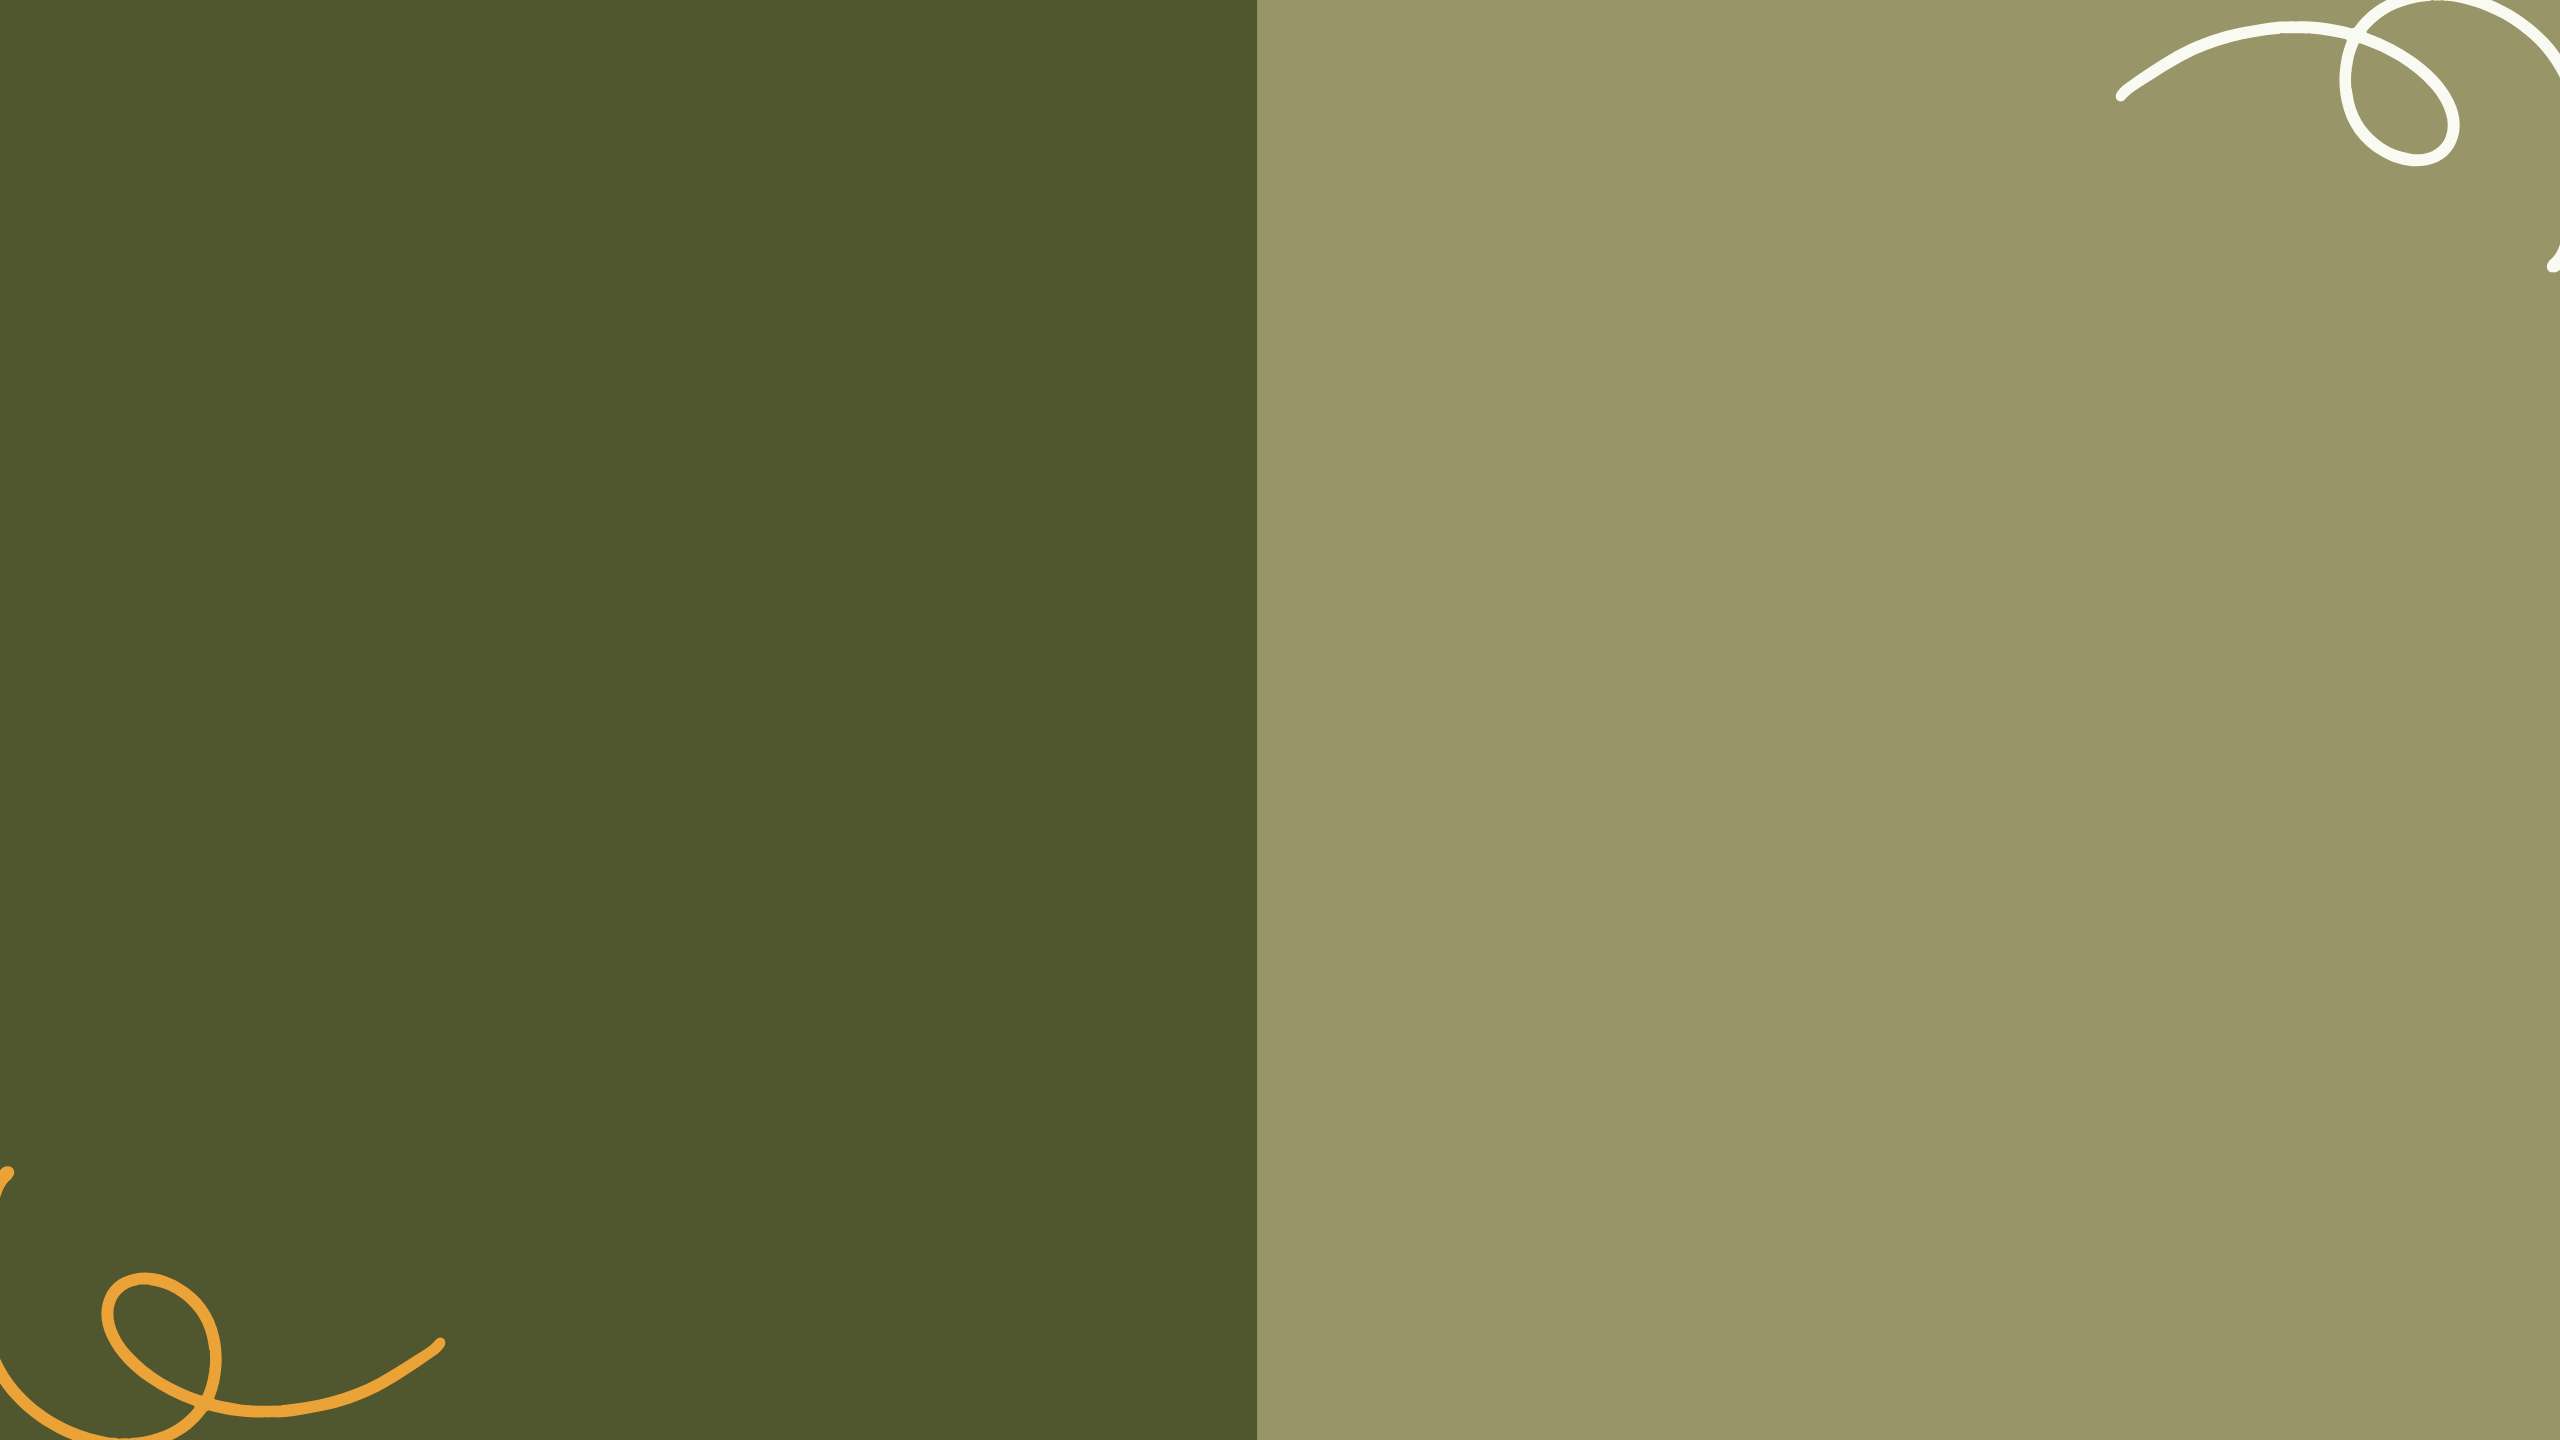
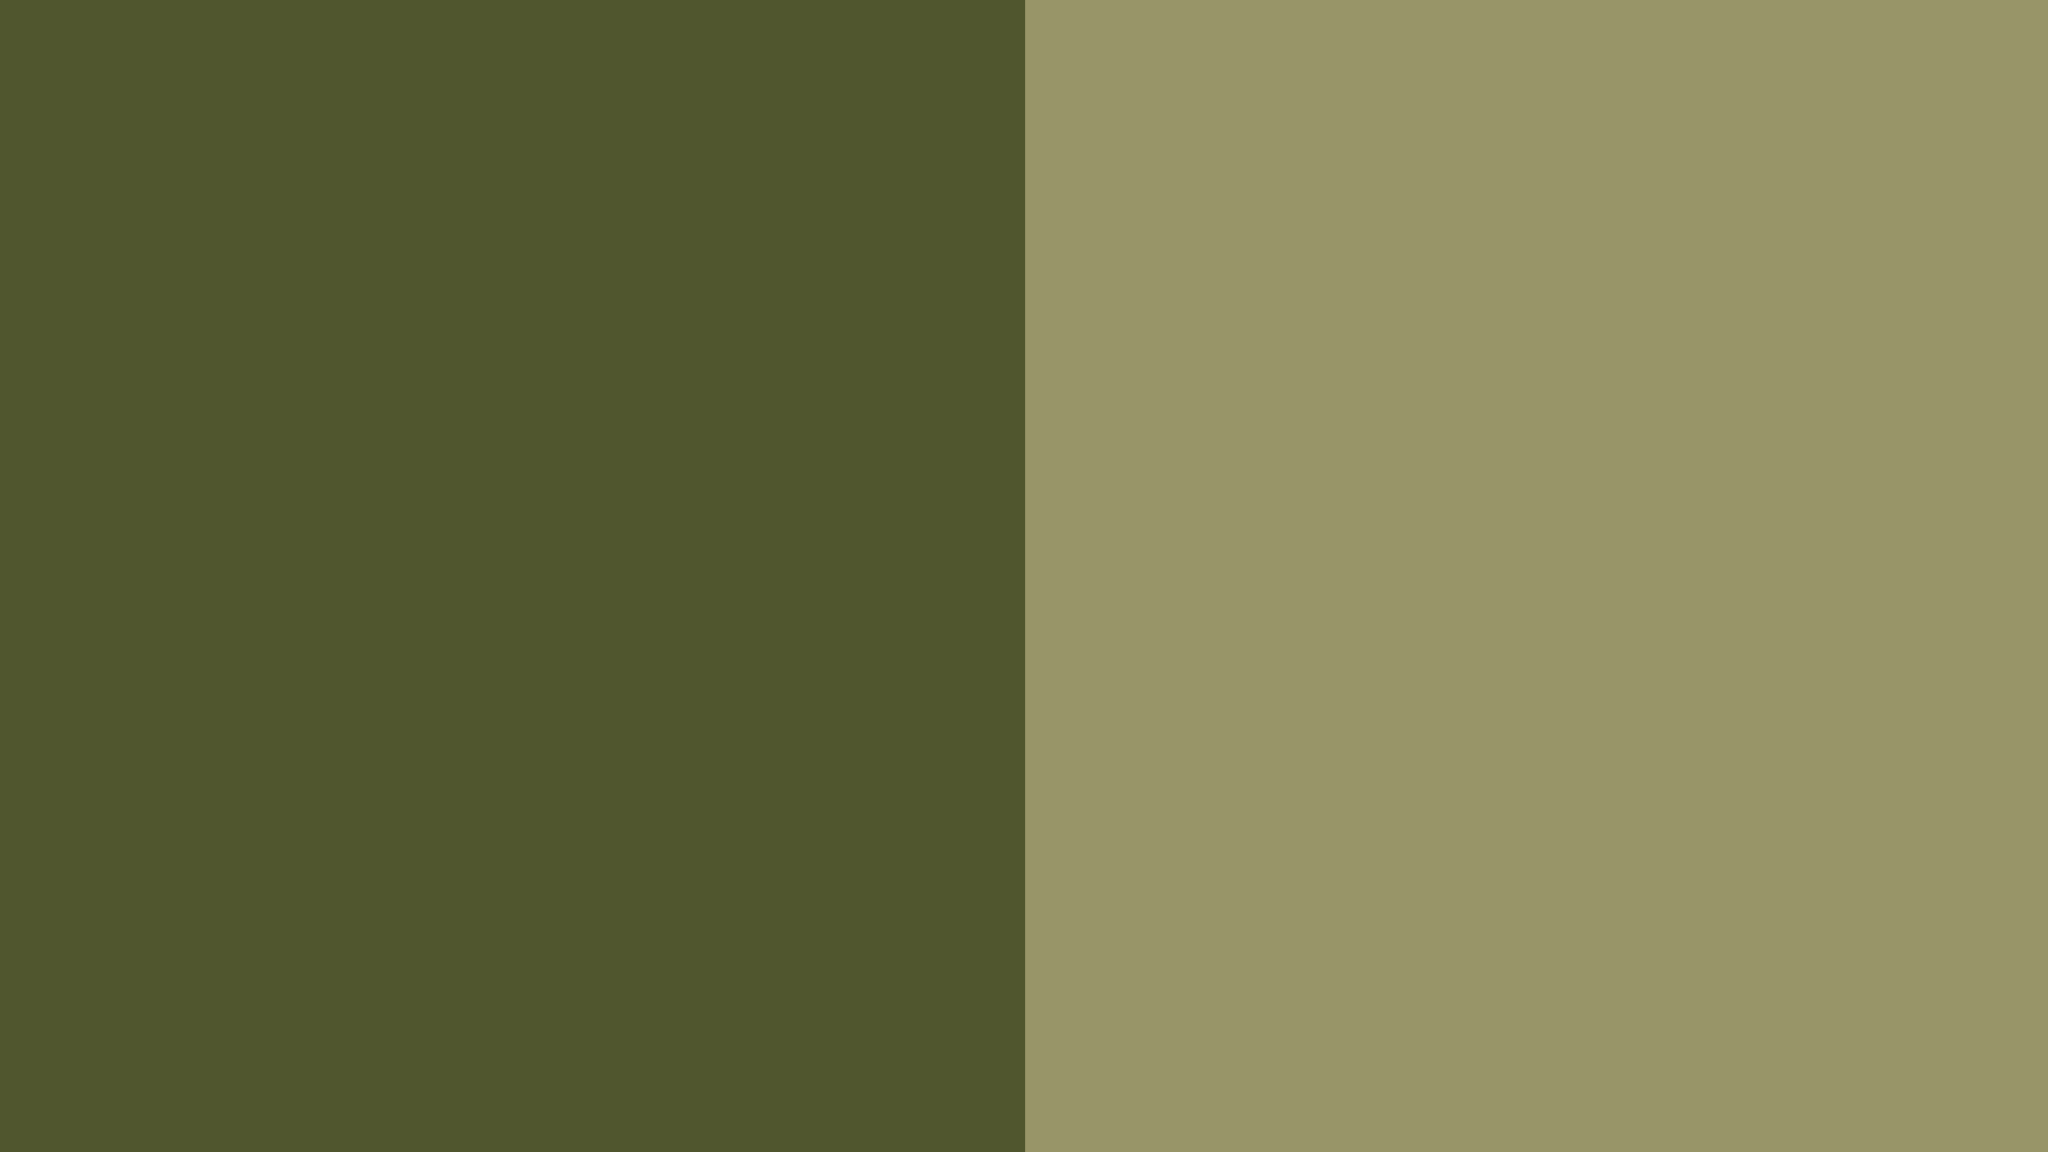
CSS: Home

diff --git a/style.css b/style.css
@@ -15,6 +15,8 @@
   --color-black: #000000;
   --color-green: #70a74e;
   --color-dark-green: #537d39;
+  --color-olive: #989568;
+  --color-dark-olive: #50562e;
 
   /* Font size */
   --font-large: 48px;
@@ -53,6 +55,13 @@ ul {
    padding-left: 0;
 }
 
+button {
+   background-color: transparent;
+   cursor: pointer;
+   border: none;
+   outline: none;
+}
+
 /* Typography */
 h1 {
    font-size: var(--font-large);
@@ -86,7 +95,7 @@ p {
 #navbar {
    display: flex;
    justify-content: space-between;
-   background-color: var(--color-green);
+   background-color: var(--color-olive);
    align-items: center;
    color: var(--color-white);
    padding: 16px;
@@ -111,6 +120,35 @@ p {
    border: 1px solid var(--color-white);
 }
 .navbar__menu__item:hover {
-   background-color: var(--color-dark-green);
+   background-color: var(--color-dark-olive);
+}
 
+/* Home */
+#home {
+   background: url(./assets/imgs/mainBackground.png) center/cover no-repeat;
+   background-size: auto;
+   padding: 40px;
+   text-align: center;
+}
+
+.home__avatar {
+   width: 250px;
+   height: 250px;
+   border-radius: 50%;
+   border: 2px solid var(--color-light-white);
+   margin-top: 24px;
+}
+.home__title,
+.home__description {
+   color: var(--color-white)
+}
+
+.home__contact {
+   color: var(--color-white);
+   font-size: var(--font-regular);
+   font-weight: var(--weight-regular);
+   margin: 24px;
+   padding: 8px 12px;
+   border: 2px solid var(--color-white);
+   border-radius: 4px;
 }

diff --git a/index.html b/index.html
@@ -40,7 +40,7 @@
       <img src="assets/imgs/profile.png" alt="profile photo" class="home__avatar">
       <h1 class='home__title'>Hello,<br>I'm Dream Coder</h1>
       <h2 class='home__description'>A Software Engineer currently redising in Chuncheon, Korea</h2>
-      <button class="home__contact">contact Me</button>
+      <button class="home__contact">Contact Me</button>
    </section>
    <!-- about -->
    <section id="about">
